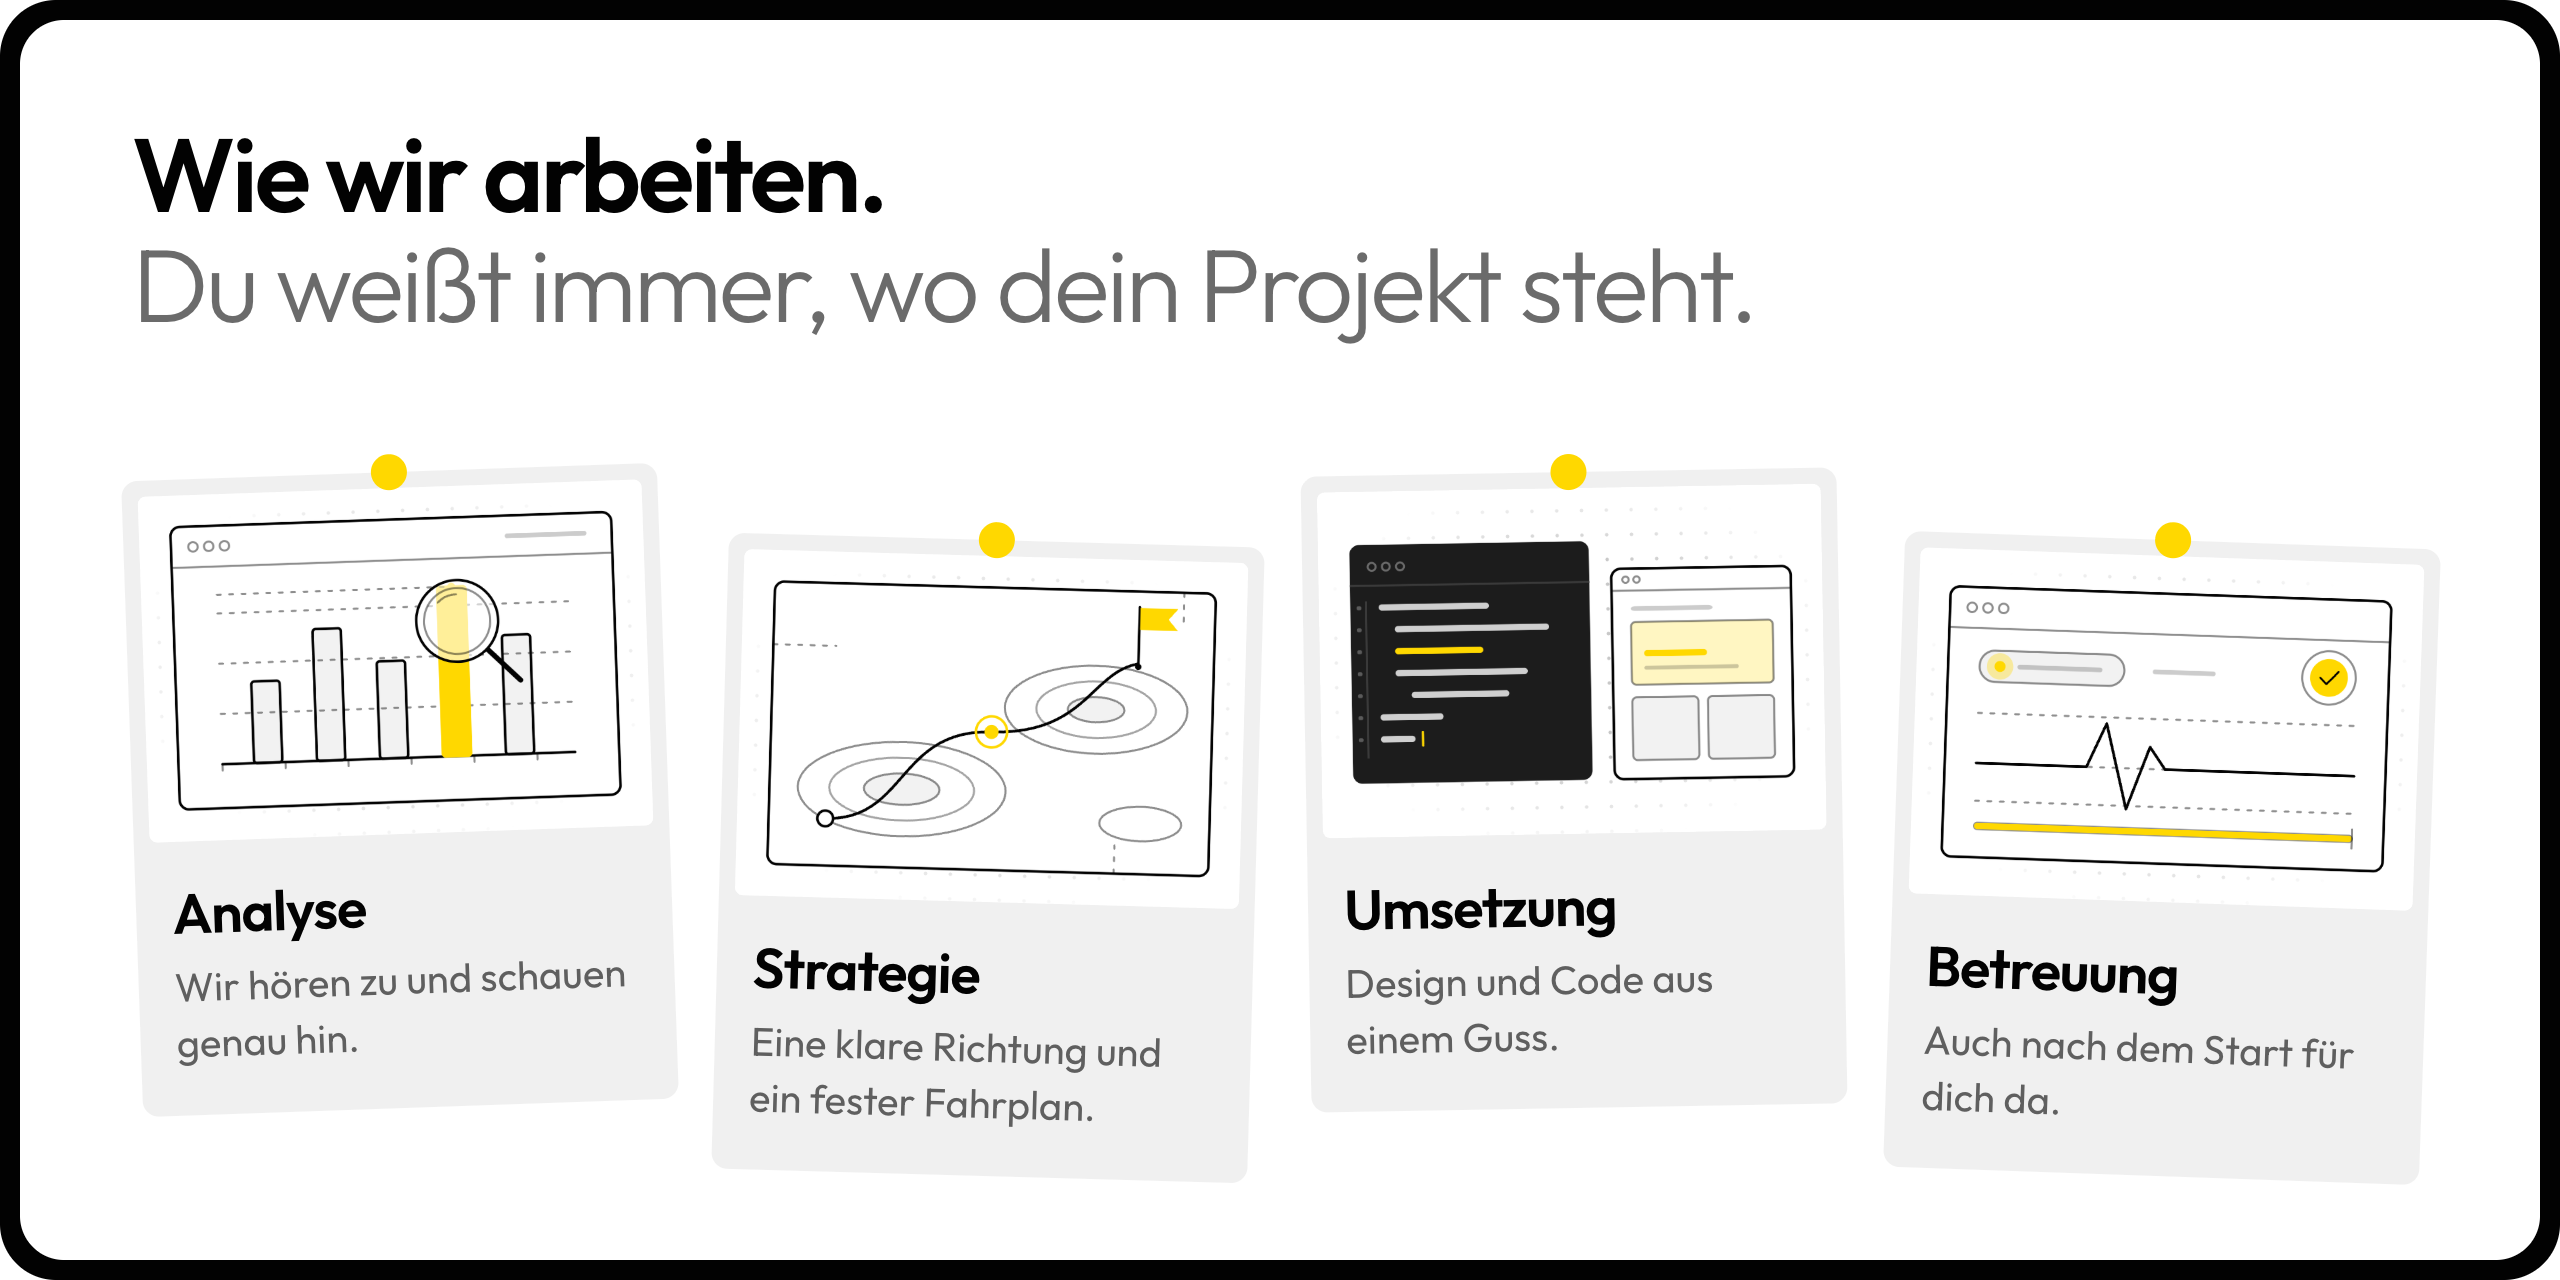
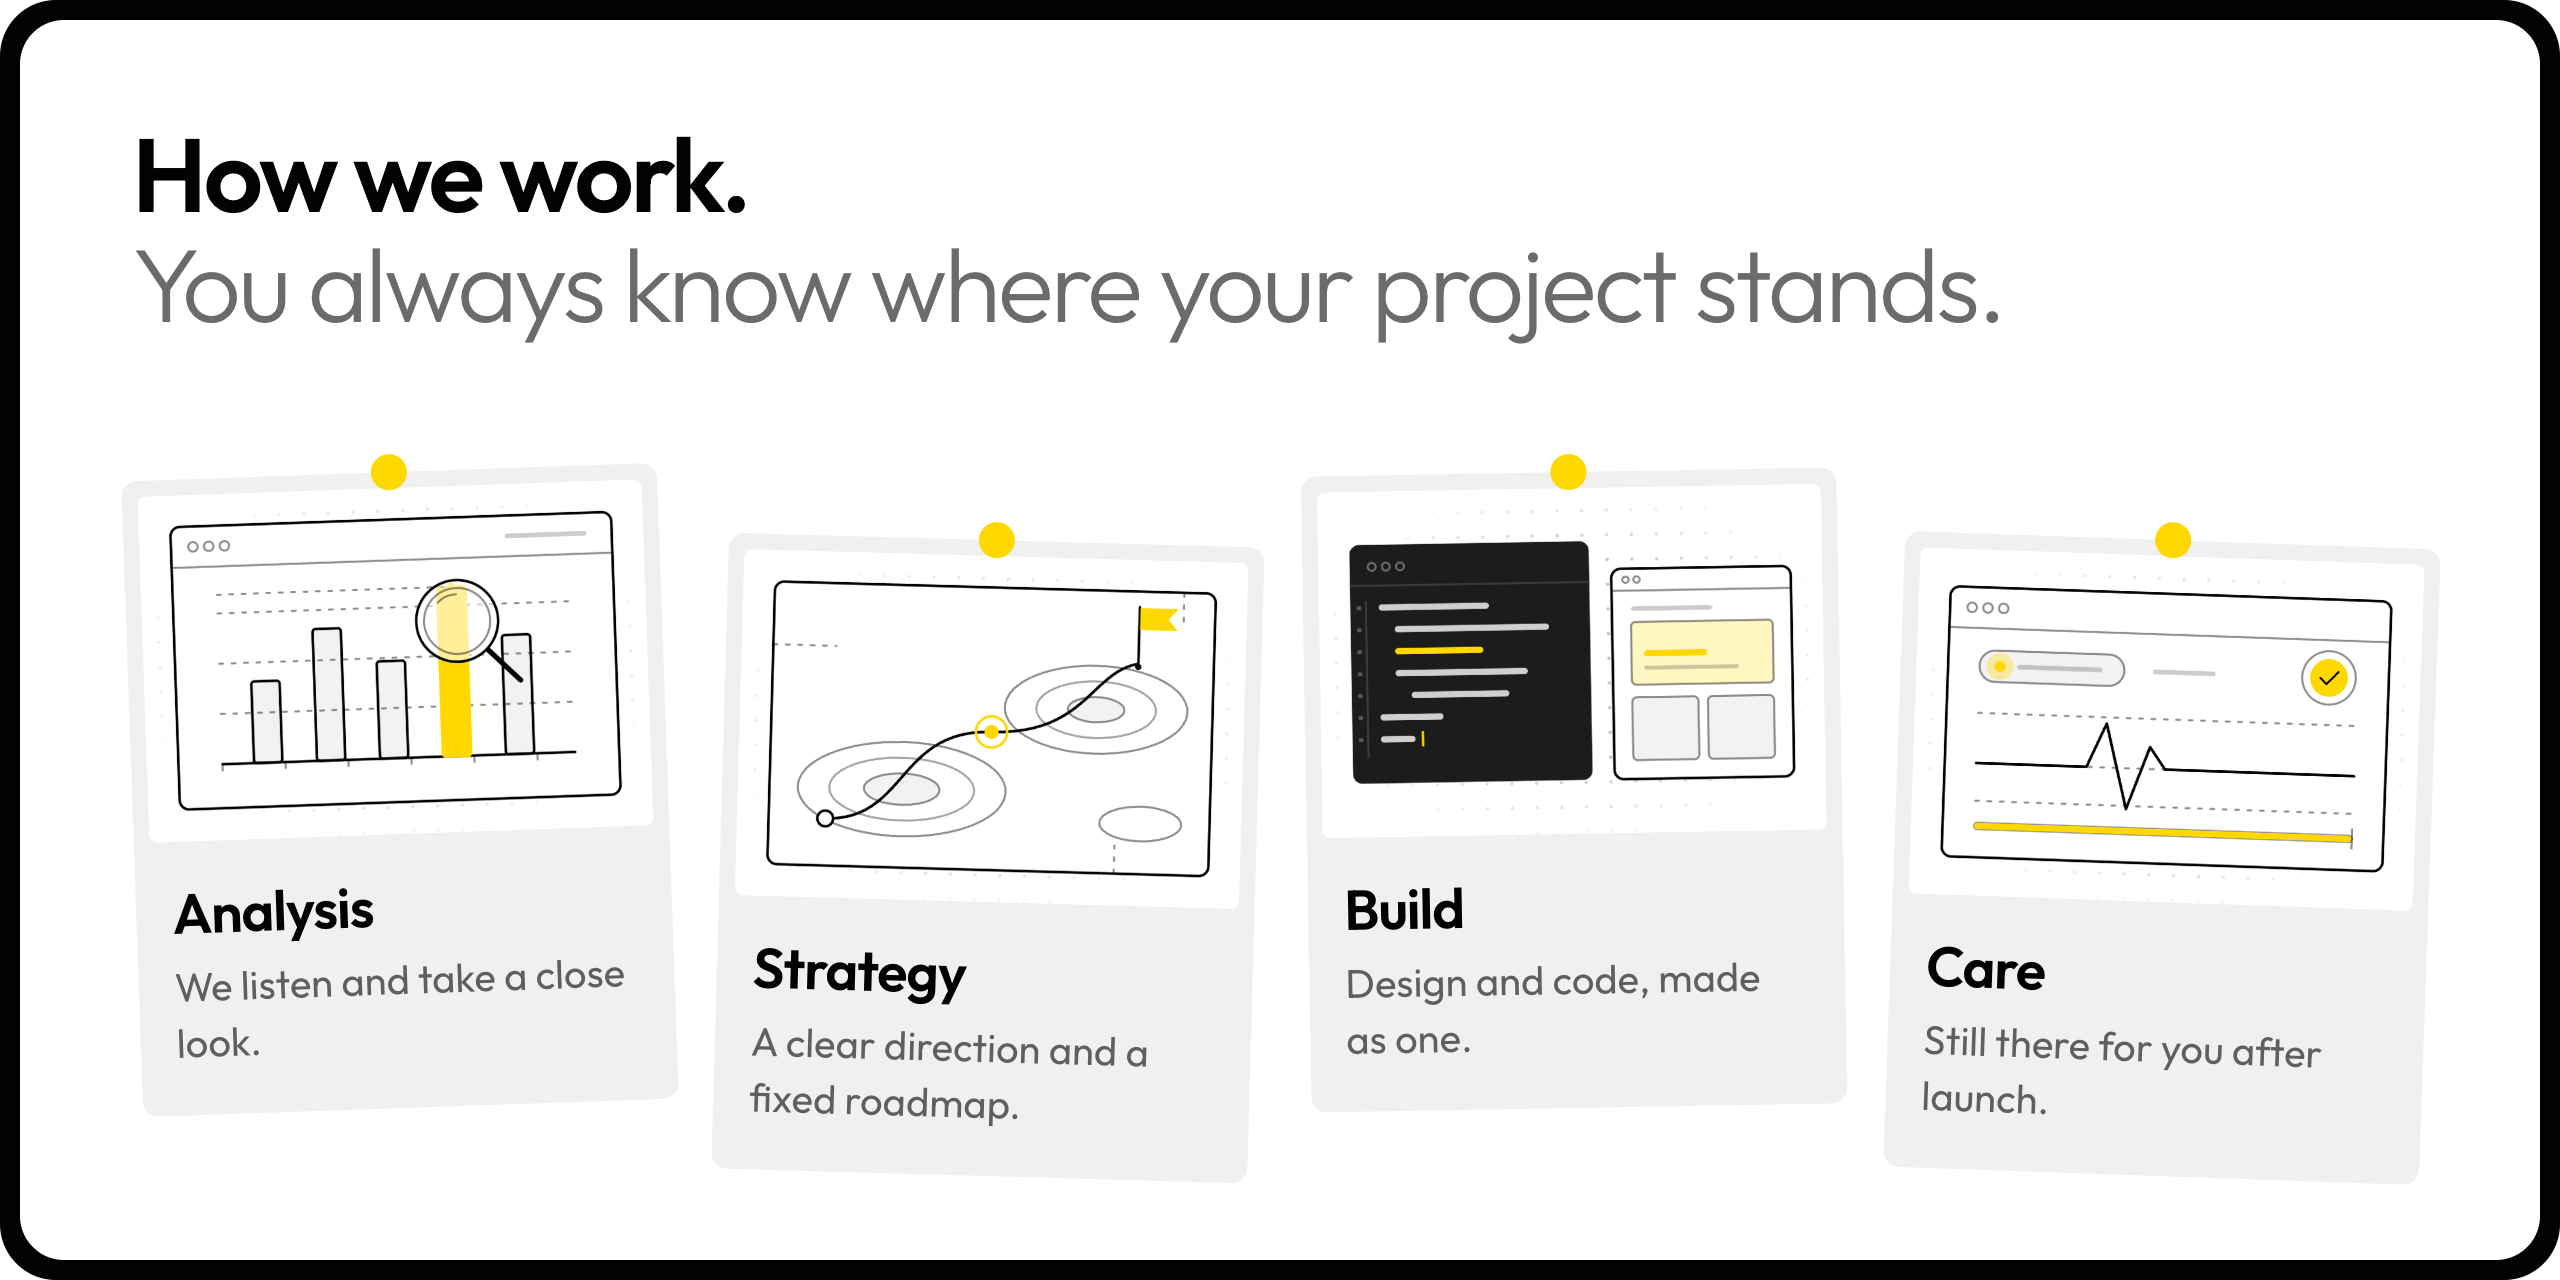
Profil-README auf Englisch umstellen
Banner, Ablauf-Grafik, Buttons und Text auf Englisch.

diff --git a/README.md b/README.md
@@ -1,24 +1,24 @@
 <a href="https://www.mxidesign.de">
-  <img src="assets/banner.png" width="100%" alt="mxi.design: Design. Web. Code. Maximilian Kunstwadl führt mxi.design in München.">
+  <img src="assets/banner.png" width="100%" alt="mxi.design: Design. Web. Code. Maximilian Kunstwadl runs mxi.design in Munich.">
 </a>
 
-### Hallo, ich bin Maxi.
+### Hi, I'm Maxi.
 
-Mit mxi.design gestalten und bauen wir in München Webseiten, Software und Apps, Logos, Drucksachen und Fotos für Marken, die mehr wollen. Design und Code kommen dabei aus einer Hand, und nach dem Start bleiben wir für dich da.
+With mxi.design in Munich, we design and build websites, software and apps, logos, print and photography for brands that want more. Design and code come from one team, and we stay with you after launch.
 
-Unsere Kundenprojekte liegen in privaten Repositories. Wenn du über dein nächstes Projekt sprechen willst, buch dir einfach einen Termin oder schreib uns.
-
-<br>
-
-<img src="assets/ablauf.png" width="100%" alt="Wie wir arbeiten: Analyse, Strategie, Umsetzung und Betreuung. Du weißt immer, wo dein Projekt steht.">
+Our client work lives in private repositories. If you'd like to talk about your next project, book a call or drop us a line.
 
 <br>
 
-<a href="https://cal.com/mxi.design/meet-greet"><img src="assets/btn-termin.png" height="48" alt="Termin buchen"></a>&nbsp;
-<a href="mailto:info@mxi.design"><img src="assets/btn-mail.png" height="48" alt="E-Mail an info@mxi.design"></a>&nbsp;
+<img src="assets/ablauf.png" width="100%" alt="How we work: analysis, strategy, build and care. You always know where your project stands.">
+
+<br>
+
+<a href="https://cal.com/mxi.design/meet-greet"><img src="assets/btn-call.png" height="48" alt="Book a call"></a>&nbsp;
+<a href="mailto:info@mxi.design"><img src="assets/btn-mail.png" height="48" alt="Email info@mxi.design"></a>&nbsp;
 <a href="https://www.mxidesign.de"><img src="assets/btn-web.png" height="48" alt="www.mxidesign.de"></a>&nbsp;
-<a href="https://www.linkedin.com/in/mxik/"><img src="assets/btn-linkedin.png" height="48" alt="Maxi auf LinkedIn"></a>
+<a href="https://www.linkedin.com/in/mxik/"><img src="assets/btn-linkedin.png" height="48" alt="Maxi on LinkedIn"></a>
 
 <br>
 
-<sub>Außerdem von mir: <a href="https://www.gastique.de">Gastique</a></sub>
+<sub>Also by me: <a href="https://www.gastique.de">Gastique</a></sub>
